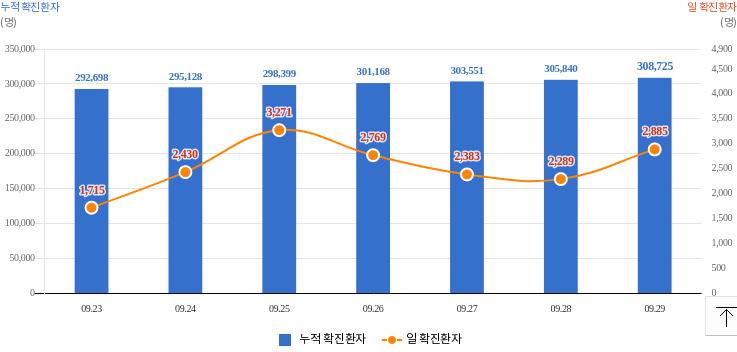
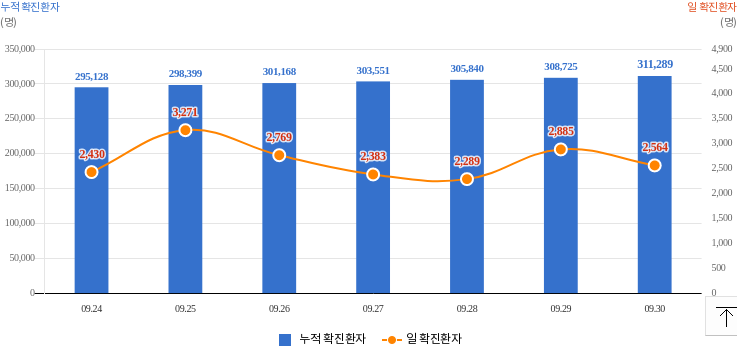
Run crawler and update current data

diff --git a/data.js b/data.js
@@ -7,7 +7,7 @@ var 검사중 = '1,798';
 var 검사결과 = '449,668';
 var 자가격리자 = '363';
 var 거리두기단계 = '사회적 거리두기  3단계 시행 : 2021.9.6.(월) 0시 ~ 10.3.(일) 24시';
-var 국내발생 = '2,859';
-var 해외발생 = '26';
-var 합계 = '2885';
+var 국내발생 = '2,539';
+var 해외발생 = '25';
+var 합계 = '2564';
 var data = [];
